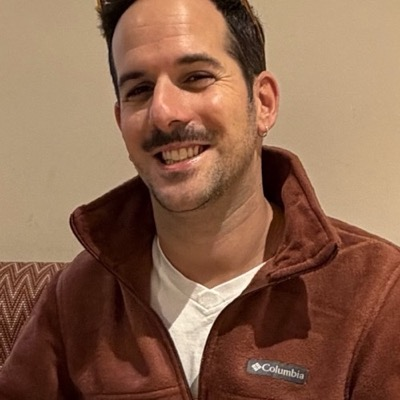
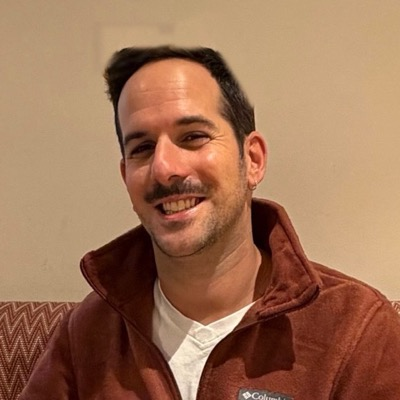
Meetup page: Eran joins, Google Meet, new host photo

diff --git a/he/meetup.html b/he/meetup.html
@@ -3,10 +3,10 @@
 <head>
   <meta charset="utf-8">
   <meta name="viewport" content="width=device-width, initial-scale=1">
-  <title>שעה בכיסא של המגייס · מפגש זום חינמי</title>
-  <meta name="description" content="מפגש זום חינמי לג׳וניורים ולמחליפי קריירה: איך באמת מחליטים מי ממשיך לשלב הבא. שלישי, 1.12, 17:00.">
+  <title>שעה בכיסא של המגייס · מפגש אונליין חינמי</title>
+  <meta name="description" content="מפגש אונליין חינמי לג׳וניורים ולמחליפי קריירה: איך באמת מחליטים מי ממשיך לשלב הבא. שלישי, 1.12, 17:00.">
   <meta property="og:title" content="רוצים להיכנס להייטק? שבו שעה בכיסא של המגייס">
-  <meta property="og:description" content="מפגש זום חינמי לג׳וניורים ולמחליפי קריירה. שלישי, 1.12, 17:00.">
+  <meta property="og:description" content="מפגש אונליין חינמי לג׳וניורים ולמחליפי קריירה. שלישי, 1.12, 17:00.">
   <meta property="og:image" content="https://danbendor.com/images/meetup/invite.png">
   <link rel="icon" href="../images/meetup/dbd-icon.png" type="image/png">
   <link rel="preconnect" href="https://fonts.googleapis.com">
@@ -77,6 +77,8 @@
     .about p { margin: 0 0 12px; color: var(--char-soft); }
     .about .more { color: var(--clay); font-weight: 700; text-decoration: none; }
     .about .more:hover { text-decoration: underline; }
+    .about.guest { margin-top: 18px; }
+    .hosts { display: flex; flex-wrap: wrap; gap: 22px 36px; }
 
     /* form */
     .reg { display: grid; grid-template-columns: 1fr 1.25fr; gap: 40px; align-items: start; }
@@ -134,14 +136,20 @@
 
   <main class="wrap">
     <div class="hero">
-      <div class="kicker">מפגש זום חינמי לג׳וניורים ולמחליפי קריירה</div>
+      <div class="kicker">מפגש אונליין חינמי לג׳וניורים ולמחליפי קריירה</div>
       <h1>רוצים להיכנס<br>להייטק?</h1>
       <div class="sub">שבו שעה בכיסא של המגייס</div>
-      <div class="when"><span>שלישי, 1.12.2026</span><span class="sep"></span><span><span dir="ltr">17:00–18:00</span> · זום</span></div>
+      <div class="when"><span>שלישי, 1.12.2026</span><span class="sep"></span><span><span dir="ltr">17:00–18:00</span> · Google Meet</span></div>
       <div class="hero-foot">
-        <div class="host">
-          <img src="../images/meetup/host.jpg" alt="דן בן דור">
-          <div class="who"><div class="name">Dan Ben Dor</div><div class="role">HR &amp; Talent Lead</div></div>
+        <div class="hosts">
+          <div class="host">
+            <img src="../images/meetup/host.jpg" alt="דן בן דור">
+            <div class="who"><div class="name">Dan Ben Dor</div><div class="role">HR &amp; Talent Lead</div></div>
+          </div>
+          <div class="host">
+            <img src="../images/meetup/eran.jpg" alt="ערן הלביץ">
+            <div class="who"><div class="name">Eran Helvitz</div><div class="role">Software Engineer</div></div>
+          </div>
         </div>
         <a class="btn" href="#register">שמרו לעצמכם מקום</a>
       </div>
@@ -174,13 +182,21 @@
           <a class="more" href="journey.html">למסע המלא שלי ←</a>
         </div>
       </div>
+      <div class="about guest">
+        <img src="../images/meetup/eran.jpg" alt="ערן הלביץ">
+        <div>
+          <h2>מצטרף למפגש</h2>
+          <div class="about-name"><span>ערן הלביץ</span> · <span dir="ltr">Software Engineer</span></div>
+          <p>ערן נכנס להייטק כג׳וניור בלי ניסיון, ואני גייסתי אותו לסטארטאפ מבטיח. במפגש הוא יספר איך זה קרה מהצד שלו: מה עשה, מה עבד, ומה היה עושה אחרת.</p>
+        </div>
+      </div>
     </section>
 
     <section id="register">
       <div class="reg">
         <div class="intro">
           <h2>שמרו לעצמכם מקום</h2>
-          <p>ההשתתפות חינם. קישור לזום יישלח אליכם במייל ובוואטסאפ לפני המפגש.</p>
+          <p>ההשתתפות חינם. מיד אחרי ההרשמה יגיע אליכם מייל אישור, וקישור לגוגל מיט יישלח במייל יומיים לפני המפגש.</p>
           <p>יש לכם שאלה שתמיד רציתם לשאול מגייס? כתבו אותה בטופס, ואענה על חלק מהשאלות במפגש.</p>
         </div>
 
@@ -208,10 +224,10 @@
 
           <div class="done" id="reg-done" tabindex="-1">
             <h3>נרשמתם, נתראה ב-1.12</h3>
-            <p>קישור לזום יגיע אליכם במייל ובוואטסאפ לפני המפגש.</p>
+            <p>שלחנו לכם מייל אישור. קישור לגוגל מיט יגיע במייל יומיים לפני המפגש.</p>
             <div class="row">
-              <a class="btn" target="_blank" rel="noopener" href="https://calendar.google.com/calendar/render?action=TEMPLATE&text=%D7%A9%D7%A2%D7%94%20%D7%91%D7%9B%D7%99%D7%A1%D7%90%20%D7%A9%D7%9C%20%D7%94%D7%9E%D7%92%D7%99%D7%99%D7%A1&dates=20261201T150000Z/20261201T160000Z&details=%D7%A7%D7%99%D7%A9%D7%95%D7%A8%20%D7%9C%D7%96%D7%95%D7%9D%20%D7%99%D7%99%D7%A9%D7%9C%D7%97%20%D7%91%D7%9E%D7%99%D7%99%D7%9C%20%D7%9C%D7%A4%D7%A0%D7%99%20%D7%94%D7%9E%D7%A4%D7%92%D7%A9.%20https%3A%2F%2Fdanbendor.com%2Fhe%2Fmeetup">הוספה ליומן</a>
-              <a class="btn ghost" target="_blank" rel="noopener" href="https://wa.me/?text=%D7%9E%D7%A4%D7%92%D7%A9%20%D7%96%D7%95%D7%9D%20%D7%97%D7%99%D7%A0%D7%9E%D7%99%20%D7%9C%D7%92%27%D7%95%D7%A0%D7%99%D7%95%D7%A8%D7%99%D7%9D%20%D7%95%D7%9C%D7%9E%D7%97%D7%9C%D7%99%D7%A4%D7%99%20%D7%A7%D7%A8%D7%99%D7%99%D7%A8%D7%94%2C%201.12%20%D7%91-17%3A00%3A%20https%3A%2F%2Fdanbendor.com%2Fhe%2Fmeetup">לשתף עם חבר/ה</a>
+              <a class="btn" target="_blank" rel="noopener" href="https://calendar.google.com/calendar/render?action=TEMPLATE&amp;text=%D7%A9%D7%A2%D7%94%20%D7%91%D7%9B%D7%99%D7%A1%D7%90%20%D7%A9%D7%9C%20%D7%94%D7%9E%D7%92%D7%99%D7%99%D7%A1&amp;dates=20261201T150000Z/20261201T160000Z&amp;details=%D7%9E%D7%A4%D7%92%D7%A9%20%D7%90%D7%95%D7%A0%D7%9C%D7%99%D7%99%D7%9F%20%D7%9C%D7%92%D7%B3%D7%95%D7%A0%D7%99%D7%95%D7%A8%D7%99%D7%9D%20%D7%95%D7%9C%D7%9E%D7%97%D7%9C%D7%99%D7%A4%D7%99%20%D7%A7%D7%A8%D7%99%D7%99%D7%A8%D7%94.%20%D7%A7%D7%99%D7%A9%D7%95%D7%A8%20%D7%9C%D7%92%D7%95%D7%92%D7%9C%20%D7%9E%D7%99%D7%98%20%D7%99%D7%99%D7%A9%D7%9C%D7%97%20%D7%91%D7%9E%D7%99%D7%99%D7%9C%20%D7%99%D7%95%D7%9E%D7%99%D7%99%D7%9D%20%D7%9C%D7%A4%D7%A0%D7%99%20%D7%94%D7%9E%D7%A4%D7%92%D7%A9.%20https%3A%2F%2Fdanbendor.com%2Fhe%2Fmeetup&amp;location=Google%20Meet">הוספה ליומן</a>
+              <a class="btn ghost" target="_blank" rel="noopener" href="https://wa.me/?text=%D7%9E%D7%A4%D7%92%D7%A9%20%D7%90%D7%95%D7%A0%D7%9C%D7%99%D7%99%D7%9F%20%D7%97%D7%99%D7%A0%D7%9E%D7%99%20%D7%9C%D7%92%27%D7%95%D7%A0%D7%99%D7%95%D7%A8%D7%99%D7%9D%20%D7%95%D7%9C%D7%9E%D7%97%D7%9C%D7%99%D7%A4%D7%99%20%D7%A7%D7%A8%D7%99%D7%99%D7%A8%D7%94%2C%201.12%20%D7%91-17%3A00%3A%20https%3A%2F%2Fdanbendor.com%2Fhe%2Fmeetup">לשתף עם חבר/ה</a>
             </div>
           </div>
         </div>
